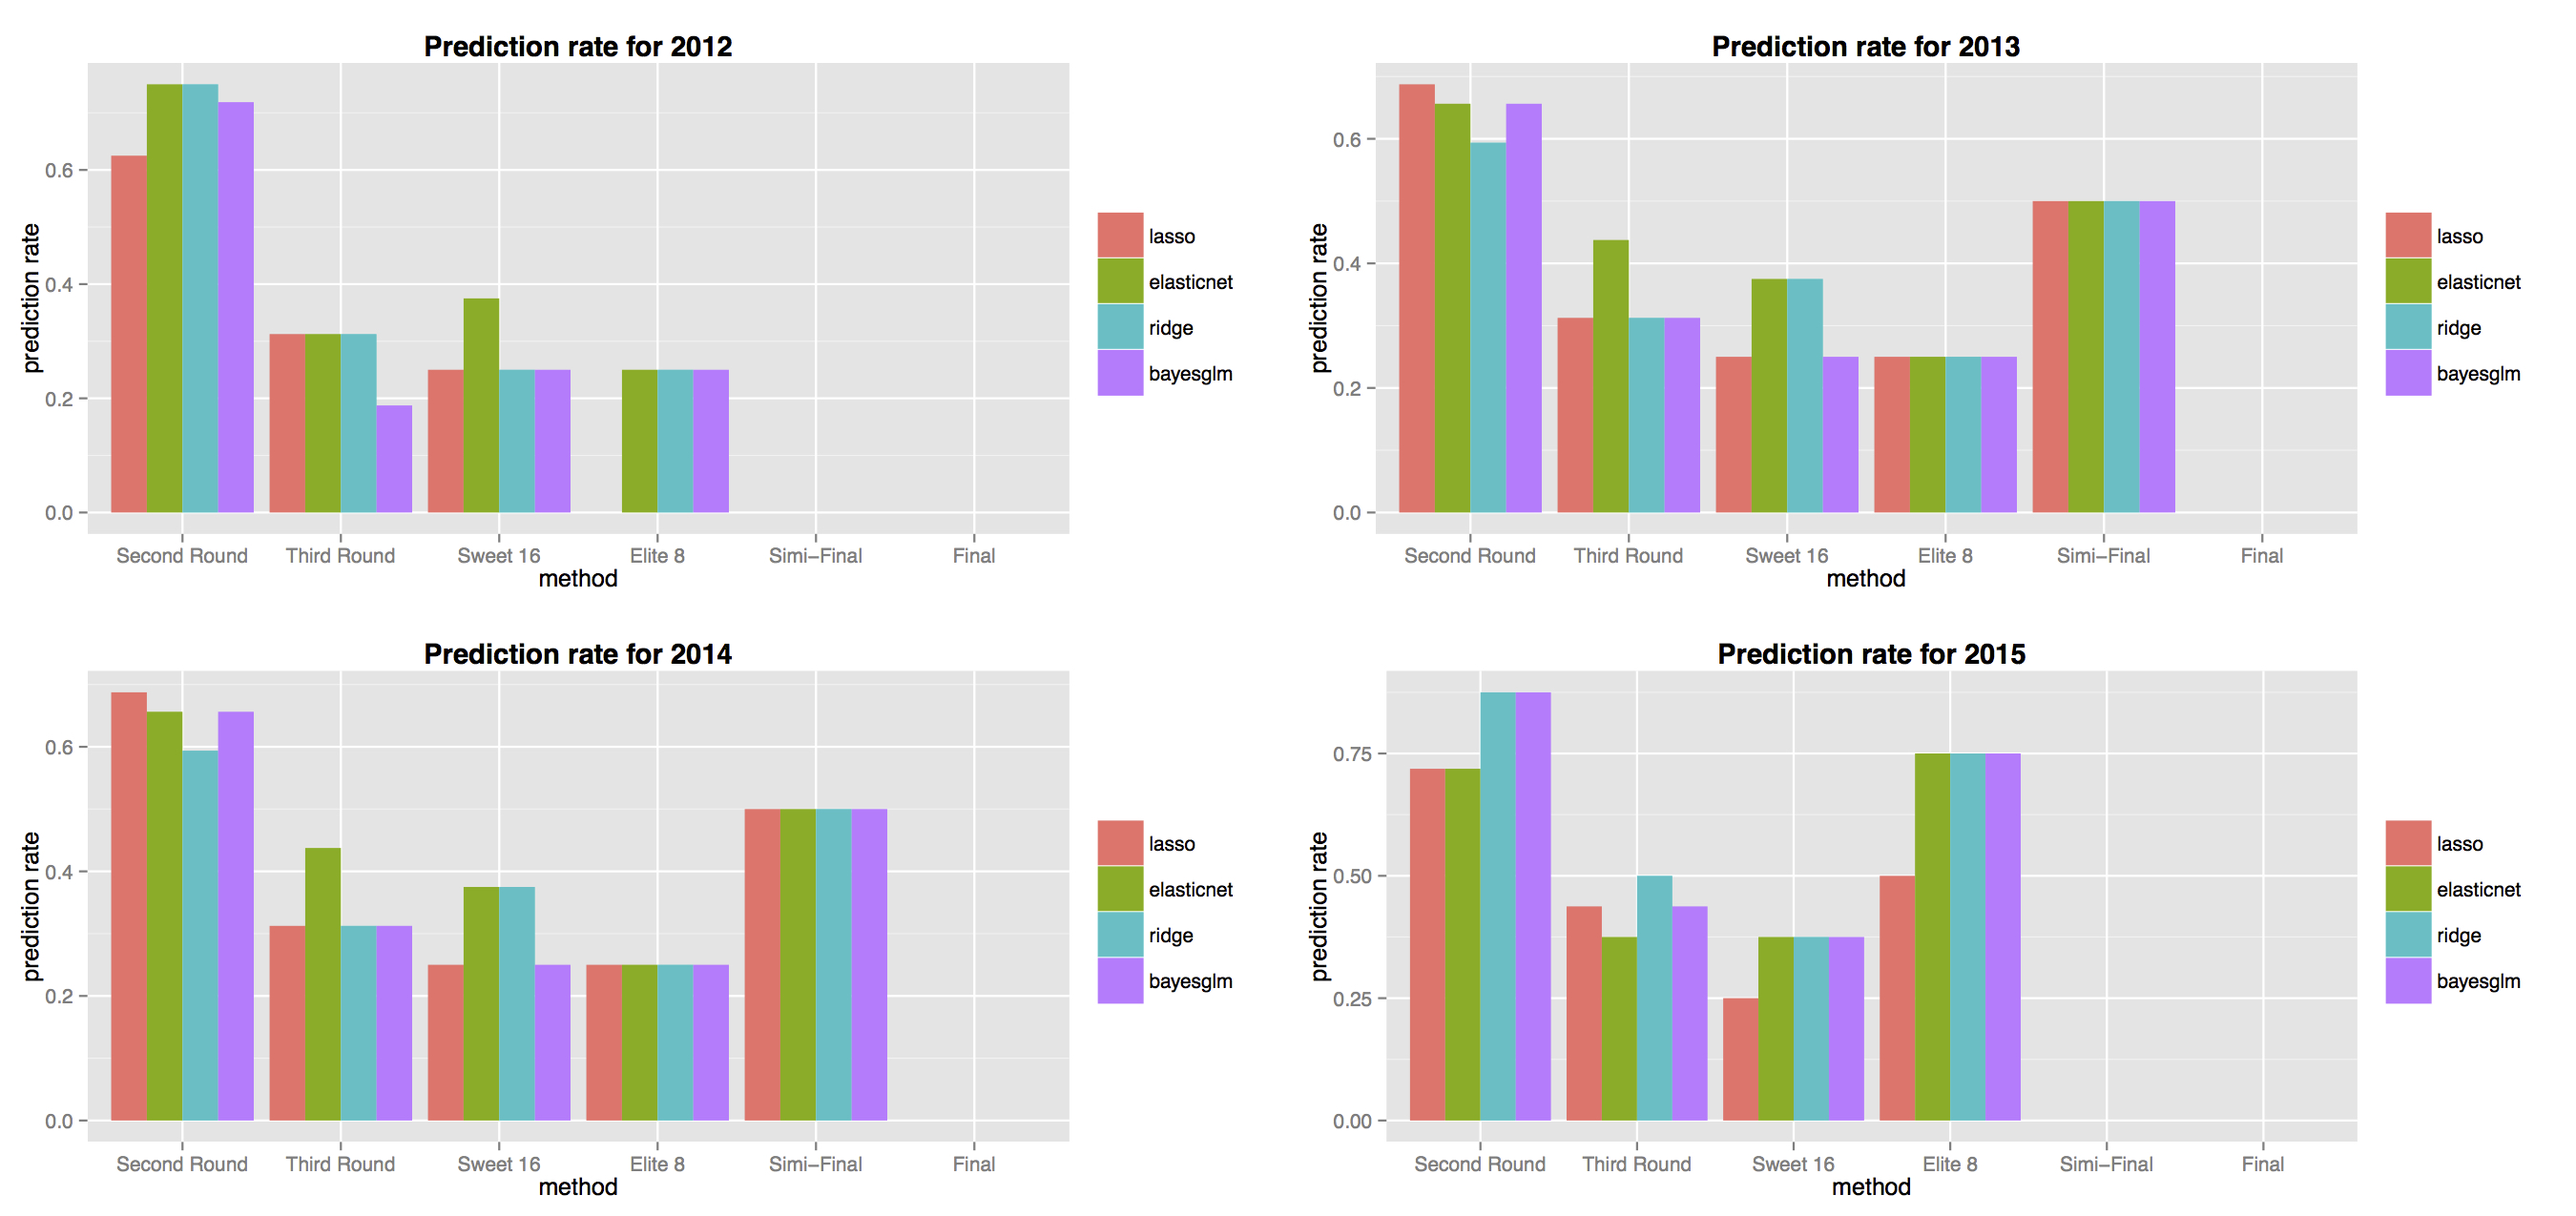
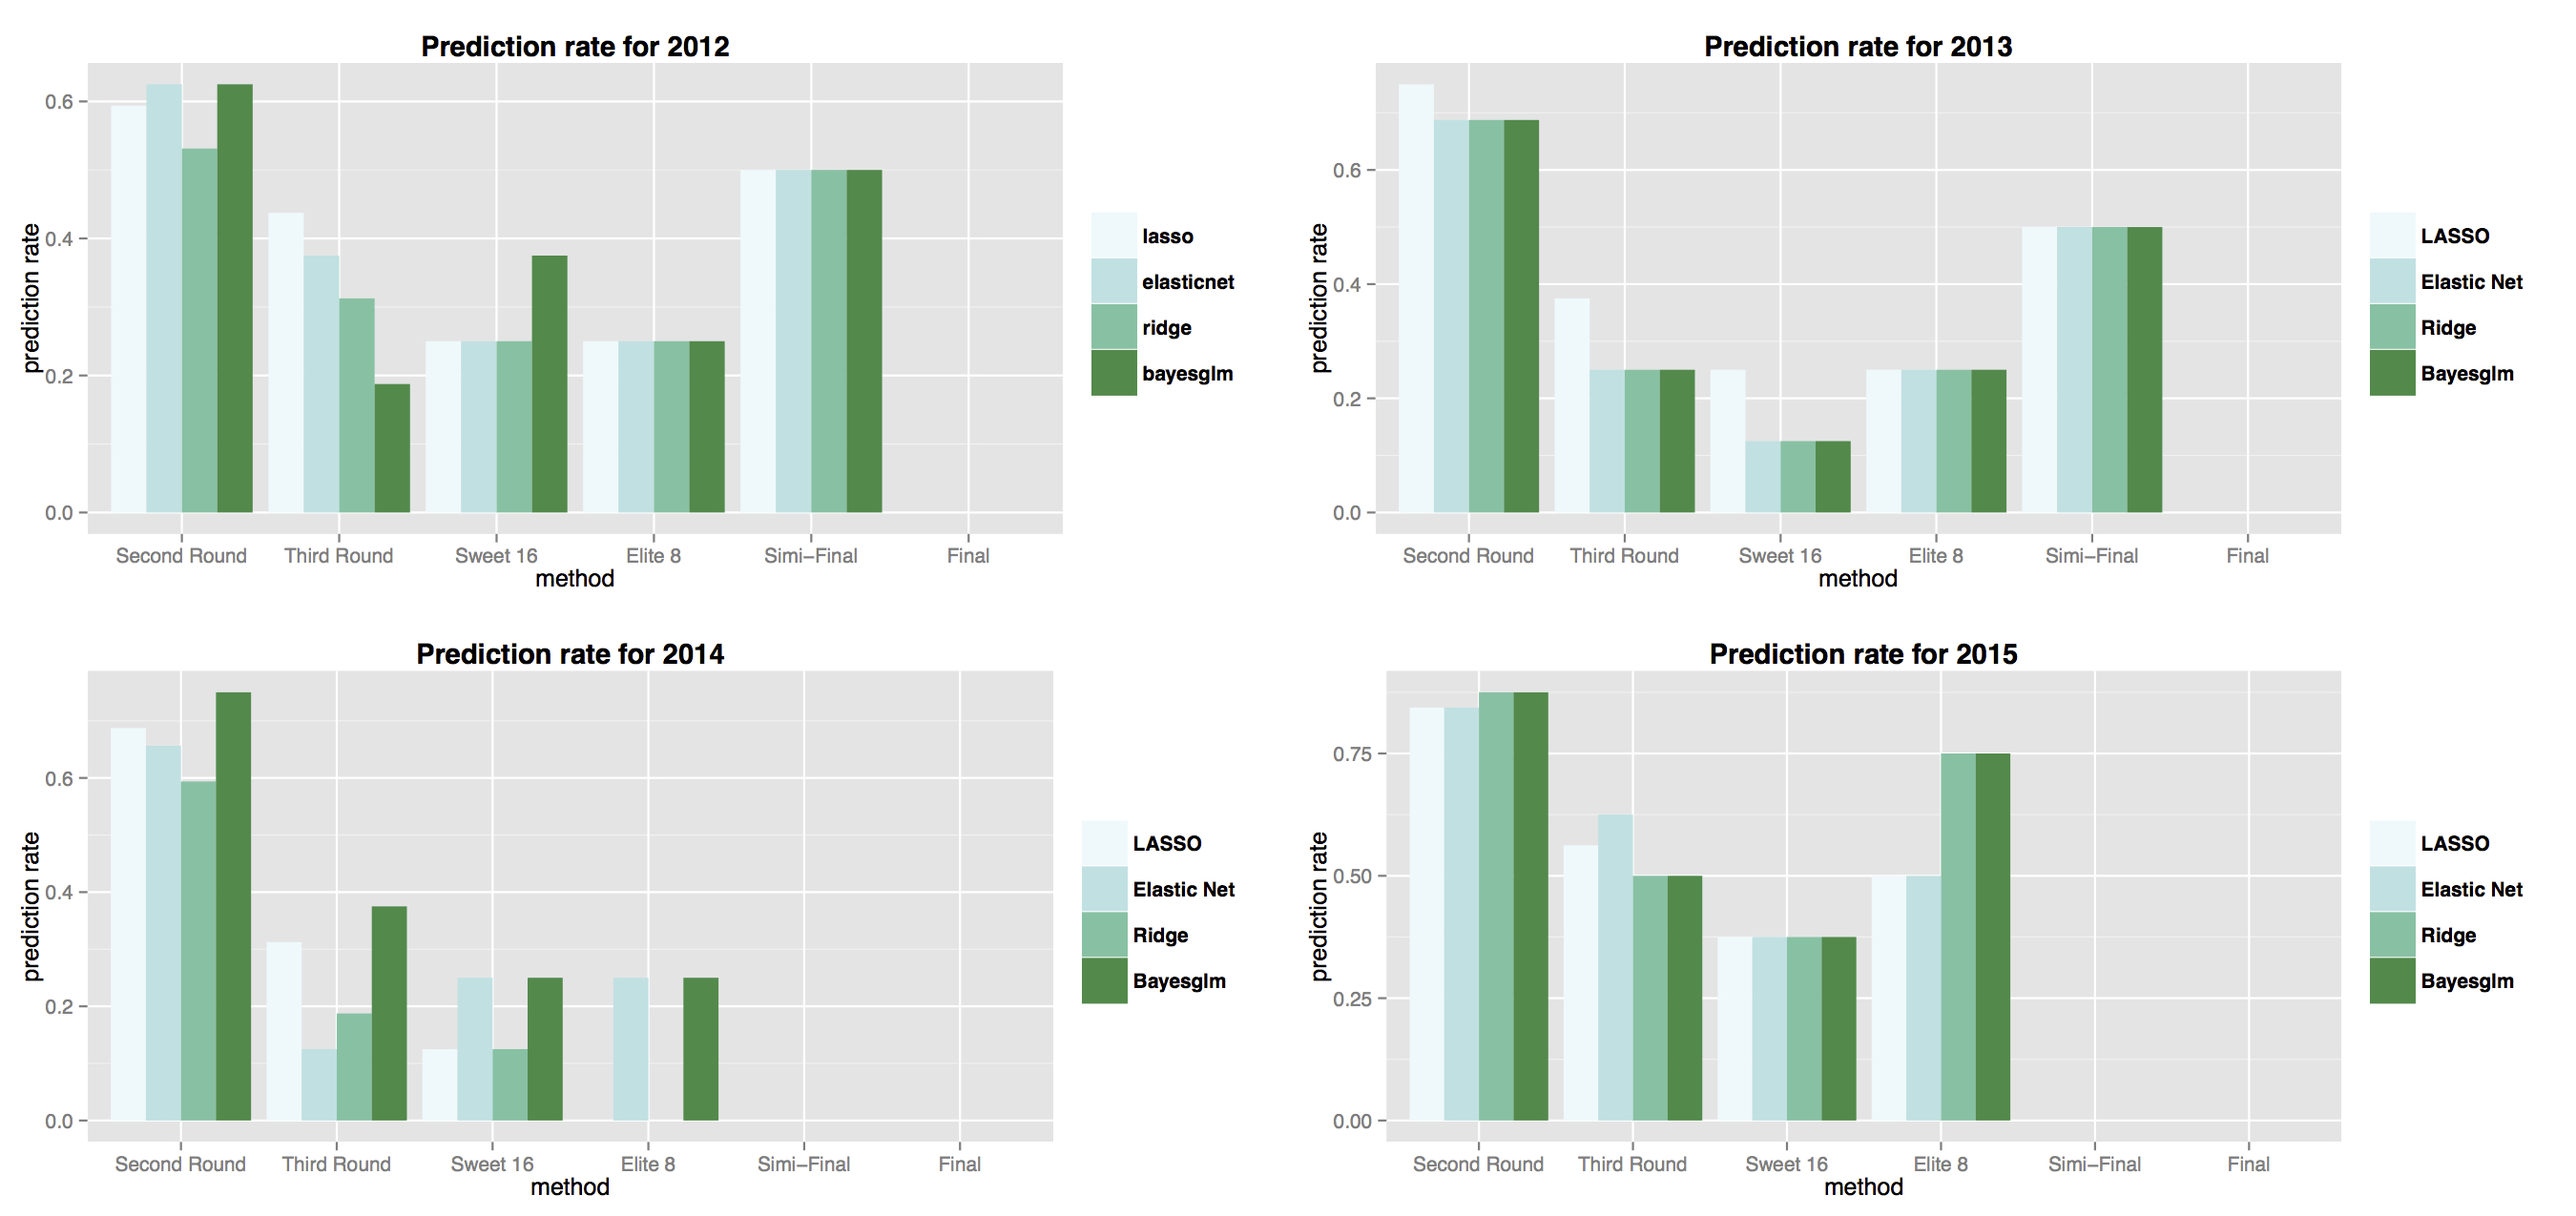
change plot

diff --git a/SakaiAtMidnight_Project.tex b/SakaiAtMidnight_Project.tex
@@ -156,36 +156,36 @@ This further suggests that if we want to incorporate team specifics into our mod
   \hline
  & LASSO & Elastic Net & Ridge & Bayesglm \\ 
   \hline
-(Intercept) & -0.0919 & -0.1435 & -0.0428 & -0.0919 \\ 
-  a.score & - & - & -0.0014 & - \\ 
-  b.score & - & - & -0.0110 & - \\ 
-  numot & - & -0.0008 & -0.0056 & - \\ 
-  a.fgm & 5.9195 & 9.2600 & 1.0068 & 5.9195 \\ 
-  a.fga & - & 0.2775 & 0.0156 & - \\ 
-  a.fgm3 & 1.7908 & 3.1775 & 0.5921 & 1.7908 \\ 
-  a.fga3 & - & -0.1161 & -0.1366 & - \\ 
-  a.ftm & 3.6959 & 5.5006 & 0.5817 & 3.6959 \\ 
-  a.fta & 0.1784 & 0.5965 & 0.3827 & - \\ 
-  a.or & - & -0.1796 & -0.0461 & - \\ 
-  a.dr & 0.0273 & 0.7291 & 0.7220 & - \\ 
-  a.ast & - & 0.0181 & 0.3555 & - \\ 
-  a.to & - & -0.5099 & -0.4308 & - \\ 
-  a.stl & - & 0.0195 & 0.1874 & - \\ 
-  a.blk & - & 0.0172 & 0.0990 & - \\ 
-  a.pf & -0.1051 & -0.1367 & -0.3395 & - \\ 
-  b.fgm & -5.8949 & -9.3580 & -1.0299 & -5.8949 \\ 
-  b.fga & - & - & -0.0136 & - \\ 
-  b.fgm3 & -1.7676 & -3.0506 & -0.5508 & -1.7676 \\ 
-  b.fga3 & - & -0.0359 & 0.0772 & - \\ 
-  b.ftm & -3.8222 & -5.7383 & -0.6001 & -3.8222 \\ 
-  b.fta & -0.0224 & -0.3500 & -0.3674 & - \\ 
-  b.or & 0.0148 & 0.1051 & 0.0478 & - \\ 
-  b.dr & -0.0124 & -0.8340 & -0.6992 & - \\ 
-  b.ast & -0.0477 & -0.1283 & -0.3750 & - \\ 
-  b.to & - & 0.5480 & 0.4326 & - \\ 
-  b.stl & - & -0.1112 & -0.2095 & - \\ 
-  b.blk & - & 0.0661 & -0.0765 & - \\ 
-  b.pf & 0.1021 & 0.1915 & 0.3470 & - \\ 
+(Intercept) & -0.403 & -0.614 & -0.166 & -2.737 \\ 
+  a.score & - & - & -0.023 & - \\ 
+  b.score & - & - & 0.046 & - \\ 
+  numot & -0.040 & -0.112 & -0.086 & - \\ 
+  a.fgm & 6.223 & 9.809 & 1.182 & 42.818 \\ 
+  a.fga & - & - & -0.071 & - \\ 
+  a.fgm3 & 1.788 & 3.082 & 0.573 & 13.109 \\ 
+  a.fga3 & - & -0.078 & -0.167 & - \\ 
+  a.ftm & 4.051 & 6.189 & 0.677 & 28.922 \\ 
+  a.fta & 0.164 & 0.453 & 0.374 & - \\ 
+  a.or & - & -0.078 & -0.148 & - \\ 
+  a.dr & 0.004 & 0.328 & 0.506 & - \\ 
+  a.ast & 0.087 & 0.192 & 0.414 & - \\ 
+  a.to & -0.035 & -0.301 & -0.380 & - \\ 
+  a.stl & - & 0.025 & 0.169 & - \\ 
+  a.blk & 0.021 & 0.090 & 0.184 & - \\ 
+  a.pf & - & -0.040 & -0.304 & - \\ 
+  b.fgm & -6.185 & -9.748 & -1.161 & -42.606 \\ 
+  b.fga & 0.058 & 0.138 & 0.140 & - \\ 
+  b.fgm3 & -1.773 & -3.140 & -0.622 & -12.807 \\ 
+  b.fga3 & - & 0.188 & 0.233 & - \\ 
+  b.ftm & -4.022 & -6.160 & -0.667 & -28.566 \\ 
+  b.fta & -0.311 & -0.588 & -0.431 & - \\ 
+  b.or & - & - & 0.084 & - \\ 
+  b.dr & - & -0.156 & -0.493 & - \\ 
+  b.ast & -0.023 & -0.126 & -0.404 & - \\ 
+  b.to & - & 0.269 & 0.347 & - \\ 
+  b.stl & - & -0.060 & -0.144 & - \\ 
+  b.blk & - & -0.058 & -0.086 & - \\ 
+  b.pf & 0.196 & 0.286 & 0.389 & - \\ 
    \hline
 \end{tabular}
 }
@@ -225,12 +225,12 @@ This further suggests that if we want to incorporate team specifics into our mod
   \hline
  & LASSO & Elastic Net & Ridge & Bayesglm \\ 
   \hline
-Second Round & 0.69 & 0.66 & 0.59 & 0.66 \\ 
-  Third Round & 0.31 & 0.44 & 0.31 & 0.31 \\ 
-  Sweet 16 & 0.25 & 0.38 & 0.38 & 0.25 \\ 
-  Elite 8 & 0.25 & 0.25 & 0.25 & 0.25 \\ 
-  Semi-Final & 0.50 & 0.50 & 0.50 & 0.50 \\ 
-  Final & 0.00 & 0.00 & 0.00 & 0.00 \\ 
+Second Round & 0.594 & 0.625 & 0.531 & 0.625 \\ 
+  Third Round & 0.438 & 0.375 & 0.312 & 0.188 \\ 
+  Sweet 16 & 0.250 & 0.250 & 0.250 & 0.375 \\ 
+  Elite 8 & 0.250 & 0.250 & 0.250 & 0.250 \\ 
+  Simi-Final & 0.500 & 0.500 & 0.500 & 0.500 \\ 
+  Final & 0.000 & 0.000 & 0.000 & 0.000 \\ 
    \hline
 \end{tabular}
 }
@@ -242,12 +242,12 @@ Second Round & 0.69 & 0.66 & 0.59 & 0.66 \\
   \hline
  & LASSO & Elastic Net & Ridge & Bayesglm \\ 
   \hline
-Second Round & 0.72 & 0.62 & 0.56 & 0.69 \\ 
-  Third Round & 0.25 & 0.19 & 0.38 & 0.25 \\ 
-  Sweet 16 & 0.12 & 0.00 & 0.12 & 0.12 \\ 
-  Elite 8 & 0.25 & 0.00 & 0.25 & 0.25 \\ 
-  Semi-Final & 0.50 & 0.00 & 0.00 & 0.50 \\ 
-  Final & 0.00 & 0.00 & 0.00 & 0.00 \\ 
+Second Round & 0.750 & 0.688 & 0.688 & 0.688 \\ 
+  Third Round & 0.375 & 0.250 & 0.250 & 0.250 \\ 
+  Sweet 16 & 0.250 & 0.125 & 0.125 & 0.125 \\ 
+  Elite 8 & 0.250 & 0.250 & 0.250 & 0.250 \\ 
+  Simi-Final & 0.500 & 0.500 & 0.500 & 0.500 \\ 
+  Final & 0.000 & 0.000 & 0.000 & 0.000 \\ 
    \hline
 \end{tabular}
 }
@@ -259,12 +259,12 @@ Second Round & 0.72 & 0.62 & 0.56 & 0.69 \\
   \hline
  & LASSO & Elastic Net & Ridge & Bayesglm \\ 
   \hline
-Second Round & 0.62 & 0.75 & 0.75 & 0.72 \\ 
-  Third Round & 0.31 & 0.31 & 0.31 & 0.19 \\ 
-  Sweet 16 & 0.25 & 0.38 & 0.25 & 0.25 \\ 
-  Elite 8 & 0.00 & 0.25 & 0.25 & 0.25 \\ 
-  Semi-Final & 0.00 & 0.00 & 0.00 & 0.00 \\ 
-  Final & 0.00 & 0.00 & 0.00 & 0.00 \\ 
+Second Round & 0.688 & 0.656 & 0.594 & 0.750 \\ 
+  Third Round & 0.312 & 0.125 & 0.188 & 0.375 \\ 
+  Sweet 16 & 0.125 & 0.250 & 0.125 & 0.250 \\ 
+  Elite 8 & 0.000 & 0.250 & 0.000 & 0.250 \\ 
+  Simi-Final & 0.000 & 0.000 & 0.000 & 0.000 \\ 
+  Final & 0.000 & 0.000 & 0.000 & 0.000 \\ 
    \hline
 \end{tabular}
 }
@@ -276,12 +276,12 @@ Second Round & 0.62 & 0.75 & 0.75 & 0.72 \\
   \hline
  & LASSO & Elastic Net & Ridge & Bayesglm \\ 
   \hline
-Second Round & 0.72 & 0.72 & 0.88 & 0.88 \\ 
-  Third Round & 0.44 & 0.38 & 0.50 & 0.44 \\ 
-  Sweet 16 & 0.25 & 0.38 & 0.38 & 0.38 \\ 
-  Elite 8 & 0.50 & 0.75 & 0.75 & 0.75 \\ 
-  Semi-Final & 0.00 & 0.00 & 0.00 & 0.00 \\ 
-  Final & 0.00 & 0.00 & 0.00 & 0.00 \\ 
+Second Round & 0.844 & 0.844 & 0.875 & 0.875 \\ 
+  Third Round & 0.562 & 0.625 & 0.500 & 0.500 \\ 
+  Sweet 16 & 0.375 & 0.375 & 0.375 & 0.375 \\ 
+  Elite 8 & 0.500 & 0.500 & 0.750 & 0.750 \\ 
+  Simi-Final & 0.000 & 0.000 & 0.000 & 0.000 \\ 
+  Final & 0.000 & 0.000 & 0.000 & 0.000 \\ 
    \hline
 \end{tabular}
 }
